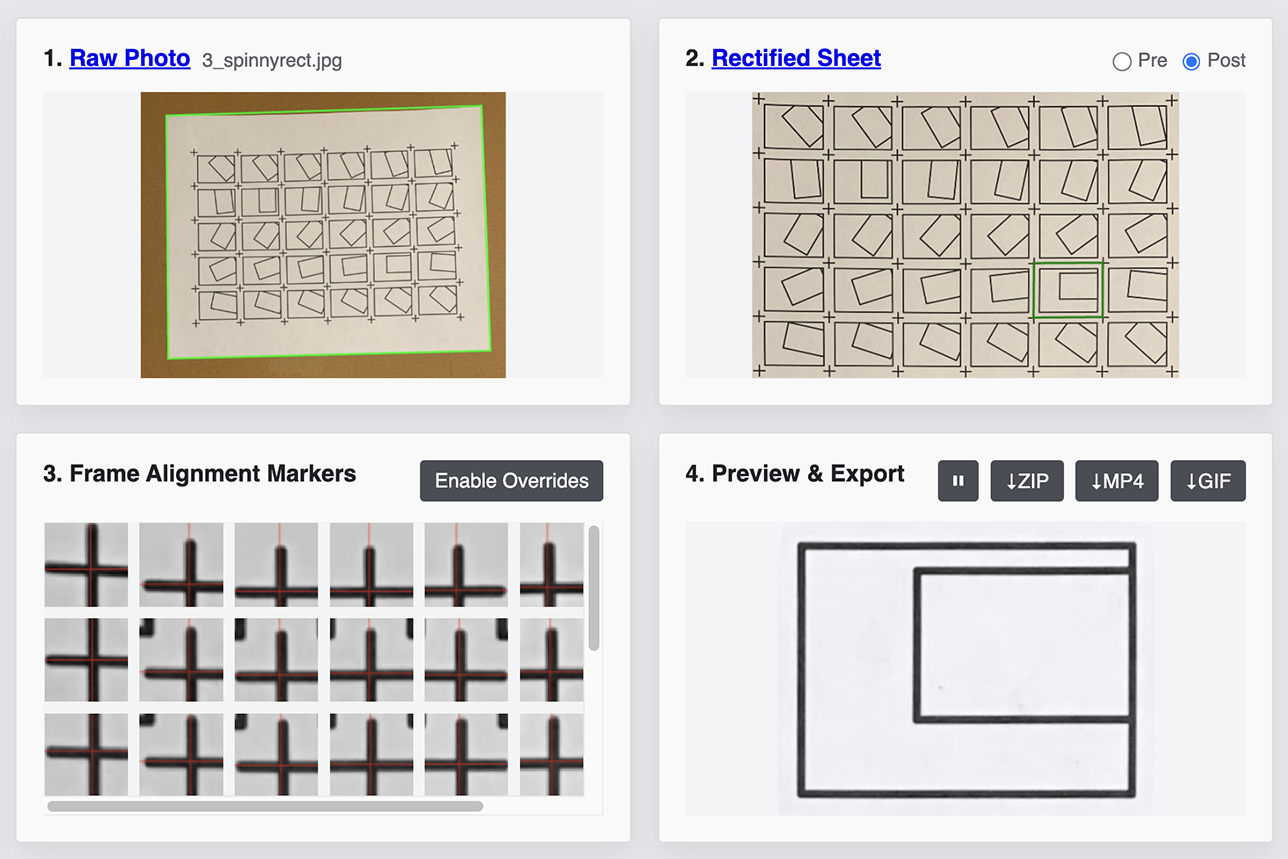
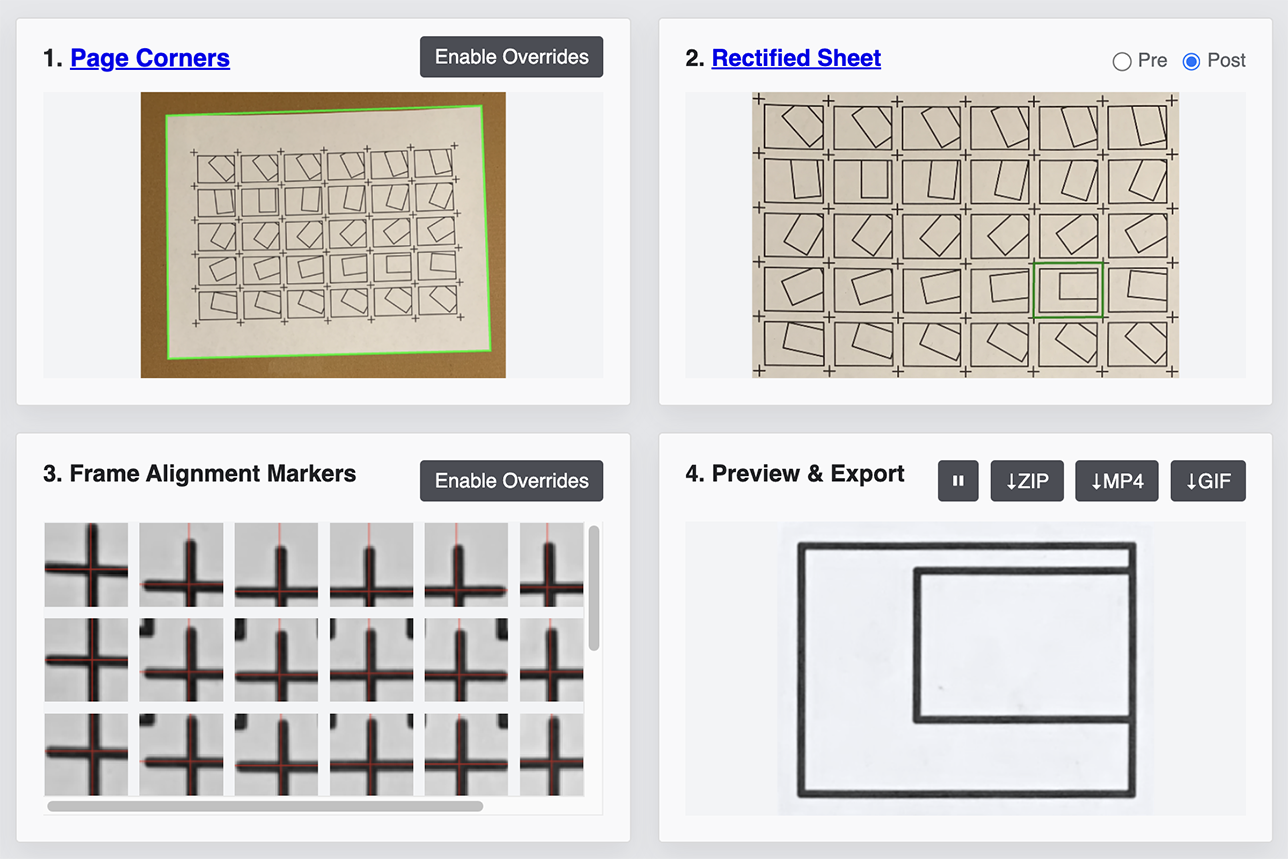
udpa

Changed region(s): [[0.3106, 0.0303, 0.4658, 0.0908], [0.0311, 0.0605, 0.2795, 0.0908]]

diff --git a/documentation.md b/documentation.md
@@ -300,6 +300,20 @@ Use `Export Options` to control the size, timing, ordering, and encoding of the 
 
 ---
 
+## Page Corners Panel Header Buttons
+
+*The `Page Corners` panel allows you to manually edit the page corners, if desired.*
+
+<img src="doc/ui_page_corners.png" width="330">
+
+* `Enable Overrides` –
+  Turns on interactive manual editing of the Page Corners. This is useful if the automatic page corner detection is incorrect or has failed. Enabling manual editing disables the Page Detection Threshold slider. 
+* `Clear Edits` –
+  Deletes manually-edited page corners and restores automatically-detected ones, if any. 
+
+
+---
+
 ## Preview Panel Header Buttons
 
 *The `Preview & Export` panel header contains the export actions.*
@@ -347,7 +361,7 @@ The `Enable Tooltips` / `Disable Tooltips` button in the panel header toggles ex
 The four main viewer panels are:
 
 1. `Page Corners` –
-  Shows the source photo, with the detected or manually edited page outline drawn in green. The header buttons let you enable manual page-corner overrides and clear them when needed.
+  Shows the source photo, with the automatically detected or manually edited page outline drawn in green. The header buttons let you enable manual page-corner overrides and clear them when needed.
 2. `Rectified Grid` –
   Shows either the full rectified page warp or the cropped rectified grid used for frame extraction, along with the current frame quad. Use the header's `Pre` / `Post` buttons to switch between those two views:
   - `Pre` shows the full page warp before frame-grid crop/re-rectification. In `Pre`, the blue outline shows the detected frame-grid search result and the magenta outline shows the current `Grid Search Inset X/Y` region.

diff --git a/README.md b/README.md
@@ -23,7 +23,7 @@ Version 1.17 • By @GolanLevin, Spring 2026.
 3. **Open** the [**Plottimation Tool**](https://golanlevin.github.io/plottimation/) in a browser, from [**here**](https://golanlevin.github.io/plottimation).
 4. **Load** the image of your frame sheet into the Plottimation Tool. You can do this by dragging your image file onto the Tool's load target (where it says "Drop a photo or scan here"), or by clicking the target to load a file.
 5. Under the *Layout* tab, **set** `Frame Columns` and `Frame Rows` to match the layout of your sheet's grid of frames. You should also set your sheet's orientation (landscape or portrait) and page size (11×8.5, etc.).
-6. It's time to **detect** your page and **extract** its grid of frames. **Adjust** the `Page Detection Threshold` slider in the *Page & Grid Detection* tab until you see a bright green frame around your page in the `Page Corners` panel. You may also need to adjust other settings, such as `Grid Search Inset X` and `Grid Search Inset Y`. If your sheet uses light ink on dark paper, enable `Light-on-dark design`.<br><img src="doc/page-rectification.png" height="250">
+6. It's time to **detect** your page and **extract** its grid of frames. **Adjust** the `Page Detection Threshold` slider in the *Page & Grid Detection* tab until you see a bright green frame around your page in the `Page Corners` panel. You may also need to adjust other settings, such as `Grid Search Inset X` and `Grid Search Inset Y`. If your sheet uses light ink on dark paper, enable `Light-on-dark design`. If necessary you can specify the page corners manually in the Page Corners panel.<br><img src="doc/page-rectification.png" height="250">
 7. **Choose** the correct `Alignment Pipeline` for your frame sheet:
    - `Markers (crosses, dots)` for marker-separated sheets, or 
    - `Markerless (gutters, frames)` for gutter-separated sheets without registration marks